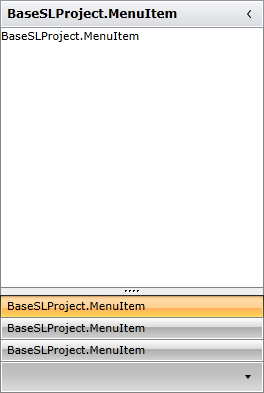
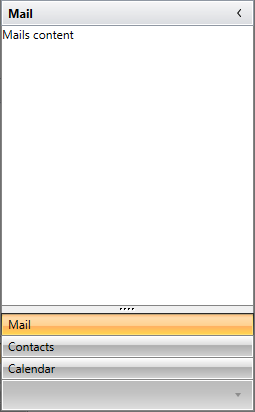
Refactor the Data Binding article

Changed region(s): [[0.0, 0.0, 1.0, 1.0]]

diff --git a/controls/radoutlookbar/populating-with-data/databinding.md b/controls/radoutlookbar/populating-with-data/databinding.md
@@ -18,14 +18,14 @@ In order to bind a __RadOutlookBar__ to a collection of business objects you can
 
 * Define a __RadOutlookBar__ in XAML.
 
-	#### __XAML__
+	#### __[XAML] Example 1: Defining RadOutlookBar in XAML__
 	{{region xaml-radoutlookbar-databinding-0}}
 		<telerik:RadOutlookBar x:Name="radOutlookBar"/>
 	{{endregion}}
 
 * Create a business object
 
-	#### __C#__
+	#### __[C#] Example 2: The MenuItem class__
 	{{region cs-radoutlookbar-databinding-1}}
 		public class MenuItem
 		{
@@ -35,7 +35,7 @@ In order to bind a __RadOutlookBar__ to a collection of business objects you can
 		}
 	{{endregion}}
 
-	#### __VB.NET__
+	#### __[VB.NET] Example 2: The MenuItem class__
 	{{region vb-radoutlookbar-databinding-2}}
 		Public Class MenuItem
 		    Public Property Header() As String
@@ -70,7 +70,7 @@ In order to bind a __RadOutlookBar__ to a collection of business objects you can
 
 * Create a view model class which will contains only a collection business objects
 
-	#### __C#__
+	#### __[C#] Example 3: The MailMenuViewModel class__
 	{{region cs-radoutlookbar-databinding-3}}
 		public class MailMenuViewModel : ViewModelBase
 		{
@@ -102,7 +102,7 @@ In order to bind a __RadOutlookBar__ to a collection of business objects you can
 		}
 	{{endregion}}
 
-	#### __VB.NET__
+	#### __[VB.NET] Example 3: The MailMenuViewModel class__
 	{{region vb-radoutlookbar-databinding-4}}
 		Public Class MailMenuViewModel
 		    Inherits ViewModelBase
@@ -154,7 +154,7 @@ In order to bind a __RadOutlookBar__ to a collection of business objects you can
 
 * Set the __DataContext__ of the __RadOutlookBar__ to a new instance of the created view model
 
-	#### __C#__
+	#### __[C#] Example 4: Setting the DataContext of the RadOutlookBar__
 	{{region cs-radoutlookbar-databinding-5}}
 		public MainWindow()
 		{
@@ -163,7 +163,7 @@ In order to bind a __RadOutlookBar__ to a collection of business objects you can
 		}
 	{{endregion}}
 
-	#### __VB.NET__
+	#### __[VB.NET] Example 4: Setting the DataContext of the RadOutlookBar__
 
 	{{region vb-radoutlookbar-databinding-6}}
 		Public Sub New()
@@ -172,12 +172,28 @@ In order to bind a __RadOutlookBar__ to a collection of business objects you can
 		End Sub
 	{{endregion}}
 
-* Then bind the __ItemsSource__ property to the collection of the view model
+* Then bind the __ItemsSource__ property to the collection of the view model and set the __ItemTemplate__, __ContentTemplate__ and __TitleTemplate__ to display the proper information.
 
-	#### __XAML__
+	#### __[XAML] Example 5: Configure the RadOutlookBar__
 
 	{{region xaml-radoutlookbar-databinding-7}}
-		<telerik:RadOutlookBar  ItemsSource="{Binding MenuItems}"/>
+		<telerik:RadOutlookBar x:Name="radOutlookBar" ItemsSource="{Binding MenuItems}">
+            <telerik:RadOutlookBar.ItemTemplate>
+                <DataTemplate>
+                    <TextBlock Text="{Binding Header}" />
+                </DataTemplate>
+            </telerik:RadOutlookBar.ItemTemplate>
+            <telerik:RadOutlookBar.ContentTemplate>
+                <DataTemplate>
+                    <TextBlock Text="{Binding Content}" />
+                </DataTemplate>
+            </telerik:RadOutlookBar.ContentTemplate>
+            <telerik:RadOutlookBar.TitleTemplate>
+                <DataTemplate>
+                    <TextBlock Text="{Binding Header}" />
+                </DataTemplate>
+            </telerik:RadOutlookBar.TitleTemplate>
+        </telerik:RadOutlookBar>
 	{{endregion}}
 
 You can see the end result bellow:
@@ -186,7 +202,9 @@ You can see the end result bellow:
 
 ## Using Custom Templates
 
-The __RadOutlookBar__ has few properties of type __DataTemplate__ that can be used in order to control its items appearance. Each property accepts a DataTemplate as a value that determines the visual appearance of the __RadOutlookBarItems__ and the __RadOutlookBar__ itself. The properties that can be used are the following:
+The __RadOutlookBar__ has few properties of type __DataTemplate__ that can be used in order to control its items appearance.
+
+Each property accepts a DataTemplate as a value that determines the visual appearance of the __RadOutlookBarItems__ and the __RadOutlookBar__ itself. The properties that can be used are the following:
 
 * __ItemTemplate__
 * __ItemMinimizedTemplate__
@@ -197,18 +215,11 @@ The __RadOutlookBar__ has few properties of type __DataTemplate__ that can be us
 
 >There are also template selectors for all of the listed templates except for the __MinimizedButtonContentTemplate__.
 
-To customize the project that we developed so far you can do the following:
+In Example 5 we already set the __ItemTemplate__, __ContentTemplate__ and __TitleTemplate__ properties.
 
-* Create an __ItemTemplate__ - this is the __DataTemplate__ that describes the visual structure of a data obejct of each __RadOutlookBarItem__
+To customize the project that we developed so far you can also set the rest of the available templates:
 
-	#### __XAML__
-	{{region xaml-radoutlookbar-databinding-8}}
-		<DataTemplate x:Key="outlookBarItemTemplate">
-			<TextBlock Text="{Binding Header}" />
-		</DataTemplate>
-	{{endregion}}
-
-* Create an __ItemMinimizedTemplate__ - this is the __DataTemplate__ that describes each __RadOutlookBarItem__ that is placed in the minimized area of the __RadOutlookBar__
+* __ItemMinimizedTemplate__: This is the __DataTemplate__ that describes each __RadOutlookBarItem__ that is placed in the minimized area of the __RadOutlookBar__:
 
 	#### __XAML__
 	{{region xaml-radoutlookbar-databinding-9}}
@@ -217,7 +228,7 @@ To customize the project that we developed so far you can do the following:
 		</DataTemplate>
 	{{endregion}}
 
-* Create an __ItemDropDownContentTemplate__ - this is the __DataTemplate__ applied to the items in the drop down which contains the minimized items that cannot fit in the minimized area
+* __ItemDropDownContentTemplate__: This is the __DataTemplate__ applied to the items in the drop down which contains the minimized items that cannot fit in the minimized area:
 
 	#### __XAML__
 	{{region xaml-radoutlookbar-databinding-10}}
@@ -226,18 +237,7 @@ To customize the project that we developed so far you can do the following:
 		</DataTemplate>
 	{{endregion}}
 
-* Create a __TitleTemplate__ - this is the __DataTemplate__ that describes the title of the __RadOutlookBar__
-
-	#### __XAML__
-	{{region xaml-radoutlookbar-databinding-11}}
-		<DataTemplate x:Key="outlookBarTitleTemplate">
-			<TextBlock Text="{Binding Header}" 
-					   FontSize="16" 
-					   FontWeight="Bold" />
-		</DataTemplate>
-	{{endregion}}
-
-* Create a __MinimizedButtonContentTemplate__ - this is the __DataTemplate__ that describes the button which is displayed when you minimize the __RadOutlookBar__
+* __MinimizedButtonContentTemplate__: This is the __DataTemplate__ that describes the button which is displayed when you minimize the __RadOutlookBar__:
 
 	#### __XAML__
 	{{region xaml-radoutlookbar-databinding-12}}
@@ -248,7 +248,7 @@ To customize the project that we developed so far you can do the following:
 		</DataTemplate>
 	{{endregion}}
 
-* Create a __ContentTemplate__ - this is the __DataTemplate__ that describes the content of the selected item 
+* Let's also extend the __ContentTemplate__ from **Example 5**: This is the __DataTemplate__ that describes the content of the selected item:
 
 	#### __XAML__
 	{{region xaml-radoutlookbar-databinding-13}}
@@ -267,13 +267,23 @@ To customize the project that we developed so far you can do the following:
 	{{region xaml-radoutlookbar-databinding-14}}
 		 <telerik:RadOutlookBar SelectedItem="{Binding SelectedItem, Mode=TwoWay}"
 		                       ItemsSource="{Binding MenuItems}"                               
-		                       ItemTemplate="{StaticResource outlookBarItemTemplate}"
 		                       ItemMinimizedTemplate="{StaticResource outlookBarItemMinimizedTemplate}"
 		                       ItemDropDownContentTemplate="{StaticResource outlookBarItemDropDownTemplate}"
-		                       TitleTemplate="{StaticResource outlookBarTitleTemplate}"
 		                       ContentTemplate="{StaticResource outlookBarContentTemplate}"
 		                       MinimizedButtonContentTemplate="{StaticResource outlookBarMinimizedBtnContentTemplate}"
-		                       MinimizedButtonContent="{Binding SelectedItem}" />
+		                       MinimizedButtonContent="{Binding SelectedItem}">
+            <telerik:RadOutlookBar.ItemTemplate>
+                <DataTemplate>
+                    <TextBlock Text="{Binding Header}" />
+                </DataTemplate>
+            </telerik:RadOutlookBar.ItemTemplate>
+            <telerik:RadOutlookBar.TitleTemplate>
+                <DataTemplate>
+                    <TextBlock Text="{Binding Header}" />
+                </DataTemplate>
+            </telerik:RadOutlookBar.TitleTemplate>
+        </telerik:RadOutlookBar>
+
 	{{endregion}}
 	
 >tip Find a runnable project of the previous example in the [WPF Samples GitHub repository](https://github.com/telerik/xaml-sdk/tree/master/OutlookBar/DataBinding).
